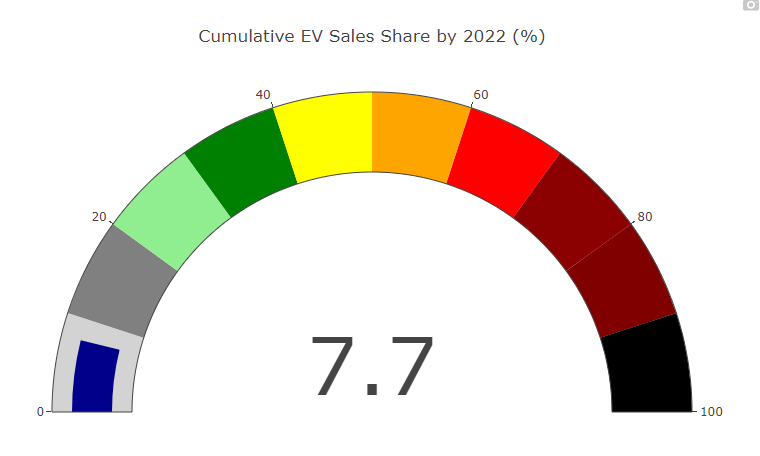
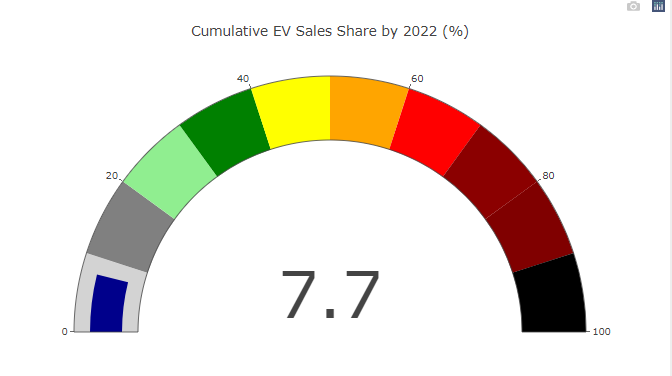
updated readme and 2 pics size
updated readme and 2 pics size

diff --git a/README.md b/README.md
@@ -1,7 +1,24 @@
 # Project3-data-visualization
 **Team Pewter:** Wen Chiou, Jason Hanlin, Camilla Inhapim, Marlon Ruiz, Matthew Copello, Fatima Mumin, Sami Kolahdoozan, Toyin Olaye, Doug Hooper, Ershad Ziaei
 
-**Project:** Dashboard showing the impact of electric vehicles on the environment
+**Check out our website here**: [Electric Vehicles (EVs)
+and Their Impact on the Environment](https://cami5326.github.io/Project3-data-visualization/index.html)
+
+**Sneak Peek**:
+
+
+![Index](https://github.com/cami5326/Project3-data-visualization/blob/main/Images/Index.png)
+
+![EV Sales Per Year](https://github.com/cami5326/Project3-data-visualization/blob/main/Images/EV%20Sales%20Per%20Year.png)
+
+![Cumulative EV Sales](https://github.com/cami5326/Project3-data-visualization/blob/main/Images/Cumulative%20EV%20Sales.PNG)
+
+![Oil Displacement](https://github.com/cami5326/Project3-data-visualization/blob/main/Images/Oil%20Displacement.png)
+
+![EV Sales Per US State](https://github.com/cami5326/Project3-data-visualization/blob/main/Images/EV%20Sales%20Per%20US%20State.PNG)
+
+![Environmental Concerns](https://github.com/cami5326/Project3-data-visualization/blob/main/Images/Environmental%20Concerns.png)
+
 
 **Datasets**: 
 [IEA Global EV Outlook 2023](https://www.iea.org/data-and-statistics/data-product/global-ev-outlook-2023)
@@ -19,19 +36,5 @@
 
 **Proposal**: [GoogleDoc](https://docs.google.com/document/d/14lbI9O5yiG16Tu137kqBH3m0776LmS7vYqbd57NU2N4/edit)
 
-**Check out our website here**: [Electric Vehicles (EVs)
-and Their Impact on the Environment](https://cami5326.github.io/Project3-data-visualization/index.html)
 
-**Sneak Peek**:
-![Index](https://github.com/cami5326/Project3-data-visualization/blob/main/Images/Index.png)
-
-![EV Sales Per Year](https://github.com/cami5326/Project3-data-visualization/blob/main/Images/EV%20Sales%20Per%20Year.png)
-
-![Cumulative EV Sales](https://github.com/cami5326/Project3-data-visualization/blob/main/Images/Cumulative%20EV%20Sales.PNG)
-
-![Oil Displacement](https://github.com/cami5326/Project3-data-visualization/blob/main/Images/Oil%20Displacement.png)
-
-![EV Sales Per US State](https://github.com/cami5326/Project3-data-visualization/blob/main/Images/EV%20Sales%20Per%20US%20State.PNG)
-
-![Environmental Concerns](https://github.com/cami5326/Project3-data-visualization/blob/main/Images/Environmental%20Concerns.png)
 
